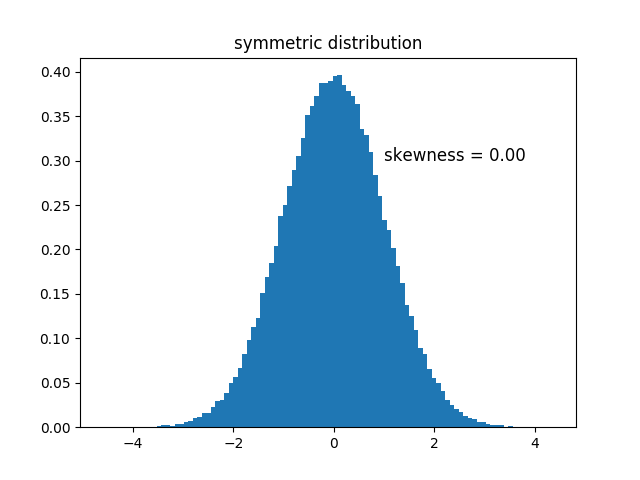
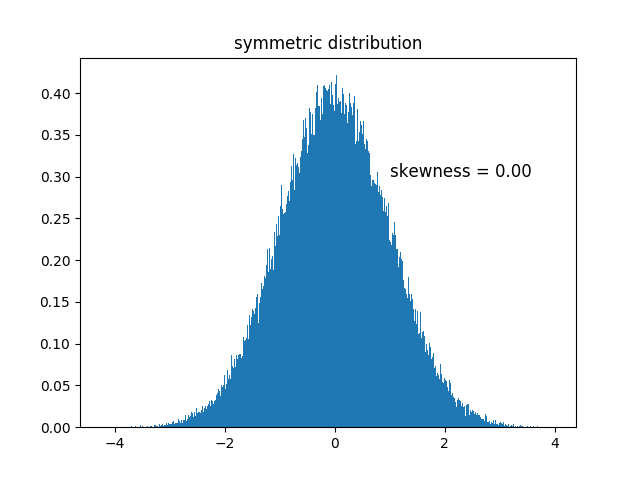
update

diff --git a/skewness.py b/skewness.py
@@ -14,7 +14,7 @@ if __name__ =='__main__':
     # symmetric data
     data = np.random.normal(0,1,size=100000)
     skew = skewness(data)
-    plt.hist(data,bins=100, density=1)
+    plt.hist(data,bins=500, density=1)
     plt.text(1,0.3,'skewness = 0.00',fontsize=12)
     plt.title("symmetric distribution")
     plt.savefig("symmetric")
@@ -25,7 +25,7 @@ if __name__ =='__main__':
     data = np.random.normal(0,1,size=10000)
     data = np.append(data,np.random.normal(-3,1,90000))
     skew = skewness(data)
-    plt.hist(data,bins=100, density=1)
+    plt.hist(data,bins=500, density=1)
     plt.text(-1,0.3,'skewness = %.2f' % skew,fontsize=12)
     plt.title("positively skewed distribution")
     plt.savefig("ps")
@@ -36,7 +36,7 @@ if __name__ =='__main__':
     data = np.random.normal(0,1,size=10000)
     data = np.append(data,np.random.normal(3,1,90000))
     skew = skewness(data)
-    plt.hist(data,bins=100, density=1)
+    plt.hist(data,bins=500, density=1)
     plt.text(-2,0.3,'skewness = %.2f' % skew,fontsize=12)
     plt.title("negatively skewed distribution")
     plt.savefig("ns")

diff --git a/report.md b/report.md
@@ -2,6 +2,19 @@
 
 Skewness is asymmetry in a statistical distribution, in which the curve appears distorted or skewed either to the left or to the right. Skewness can be quantified to define the extent to which a distribution differs from a normal distribution.
 
+### Formula
+
+~~~python
+# function to compute skewness of given data
+def skewness(data):
+    mu =  np.mean(data)
+    sigma = np.std(data)
+    skew = (data - mu) / sigma
+    skew = skew ** 3
+    skew = np.sum(skew) / len(data)
+    return skew
+~~~
+
 ### Symmetric Distribution
 
 ![](symmetric.png)
